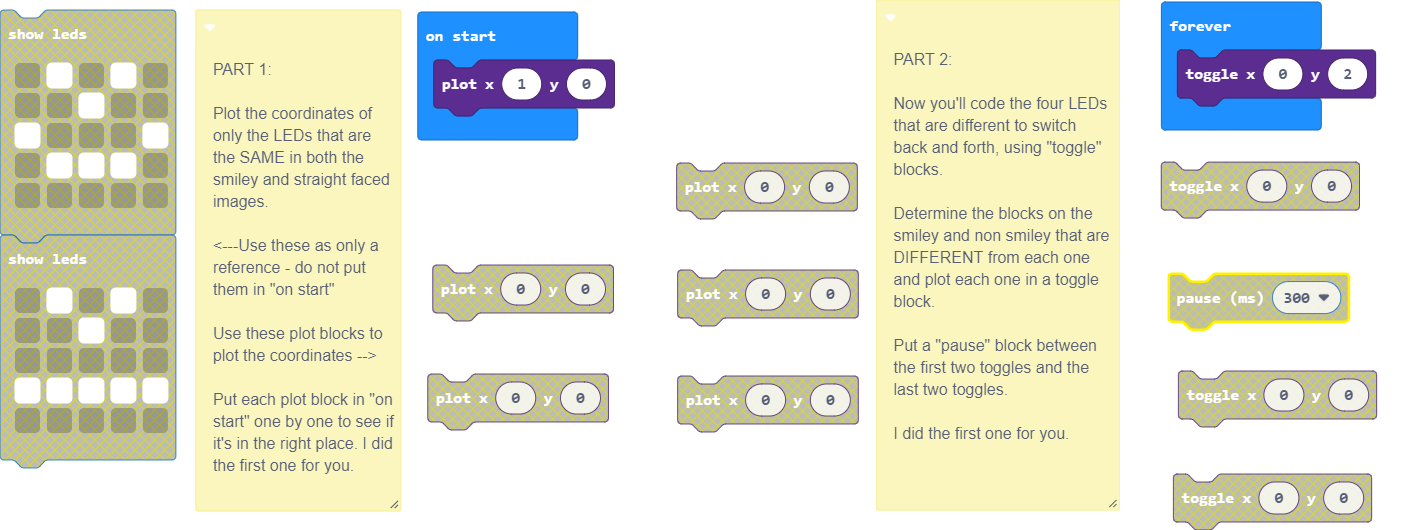
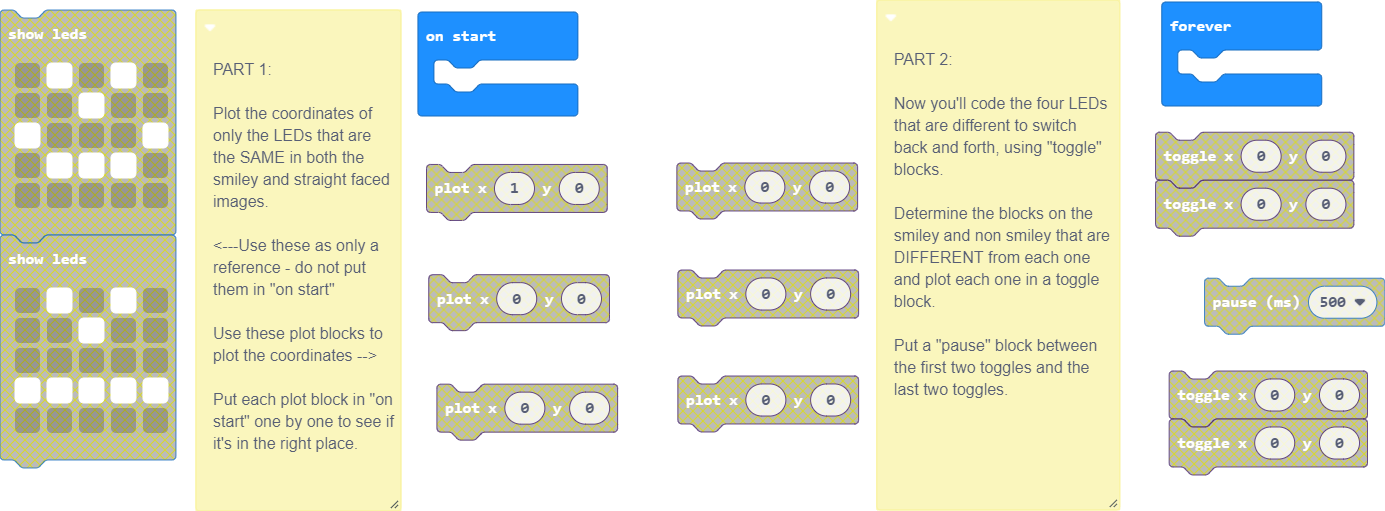
Update main.blocks, main.ts

diff --git a/main.ts b/main.ts
@@ -6,8 +6,6 @@
  * Determine the blocks on the smiley and non smiley that are DIFFERENT from each one and plot each one in a toggle block.
  * 
  * Put a "pause" block between the first two toggles and the last two toggles.
- * 
- * I did the first one for you.
  */
 /**
  * PART 1:
@@ -18,9 +16,8 @@
  * 
  * Use these plot blocks to plot the coordinates -->
  * 
- * Put each plot block in "on start" one by one to see if it's in the right place. I did the first one for you.
+ * Put each plot block in "on start" one by one to see if it's in the right place.
  */
-led.plot(1, 0)
 basic.forever(function () {
-    led.toggle(0, 2)
+	
 })
